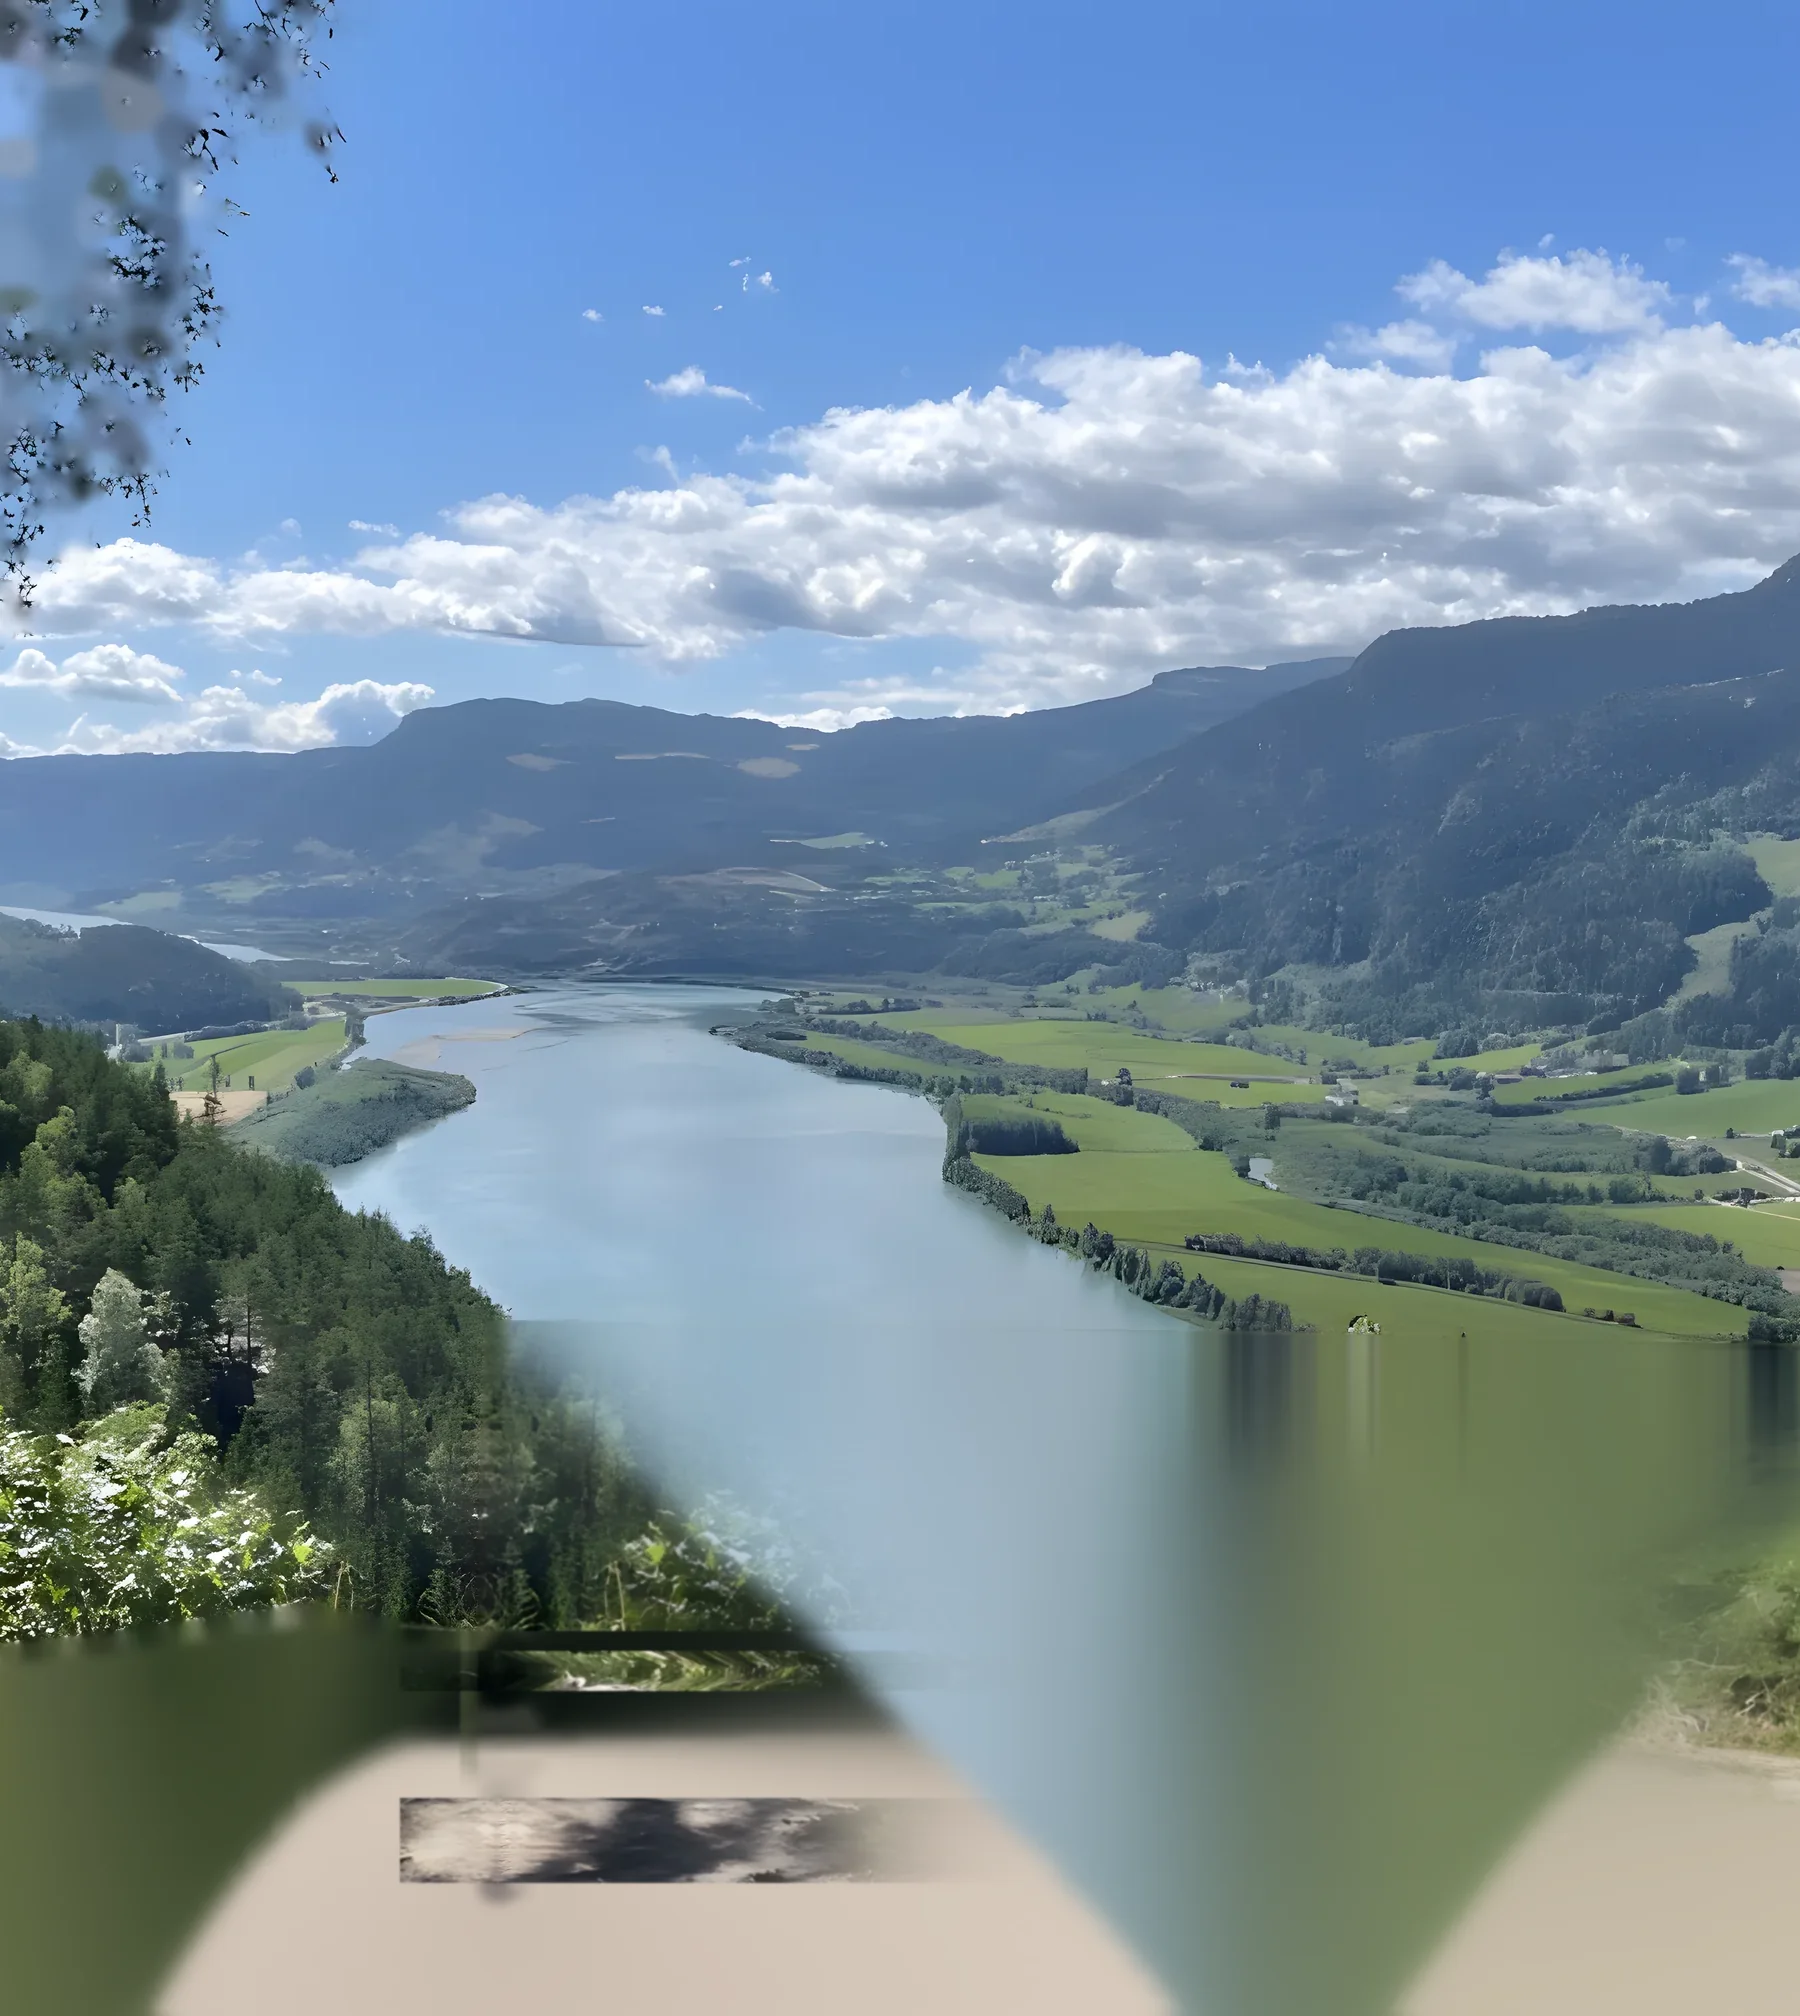
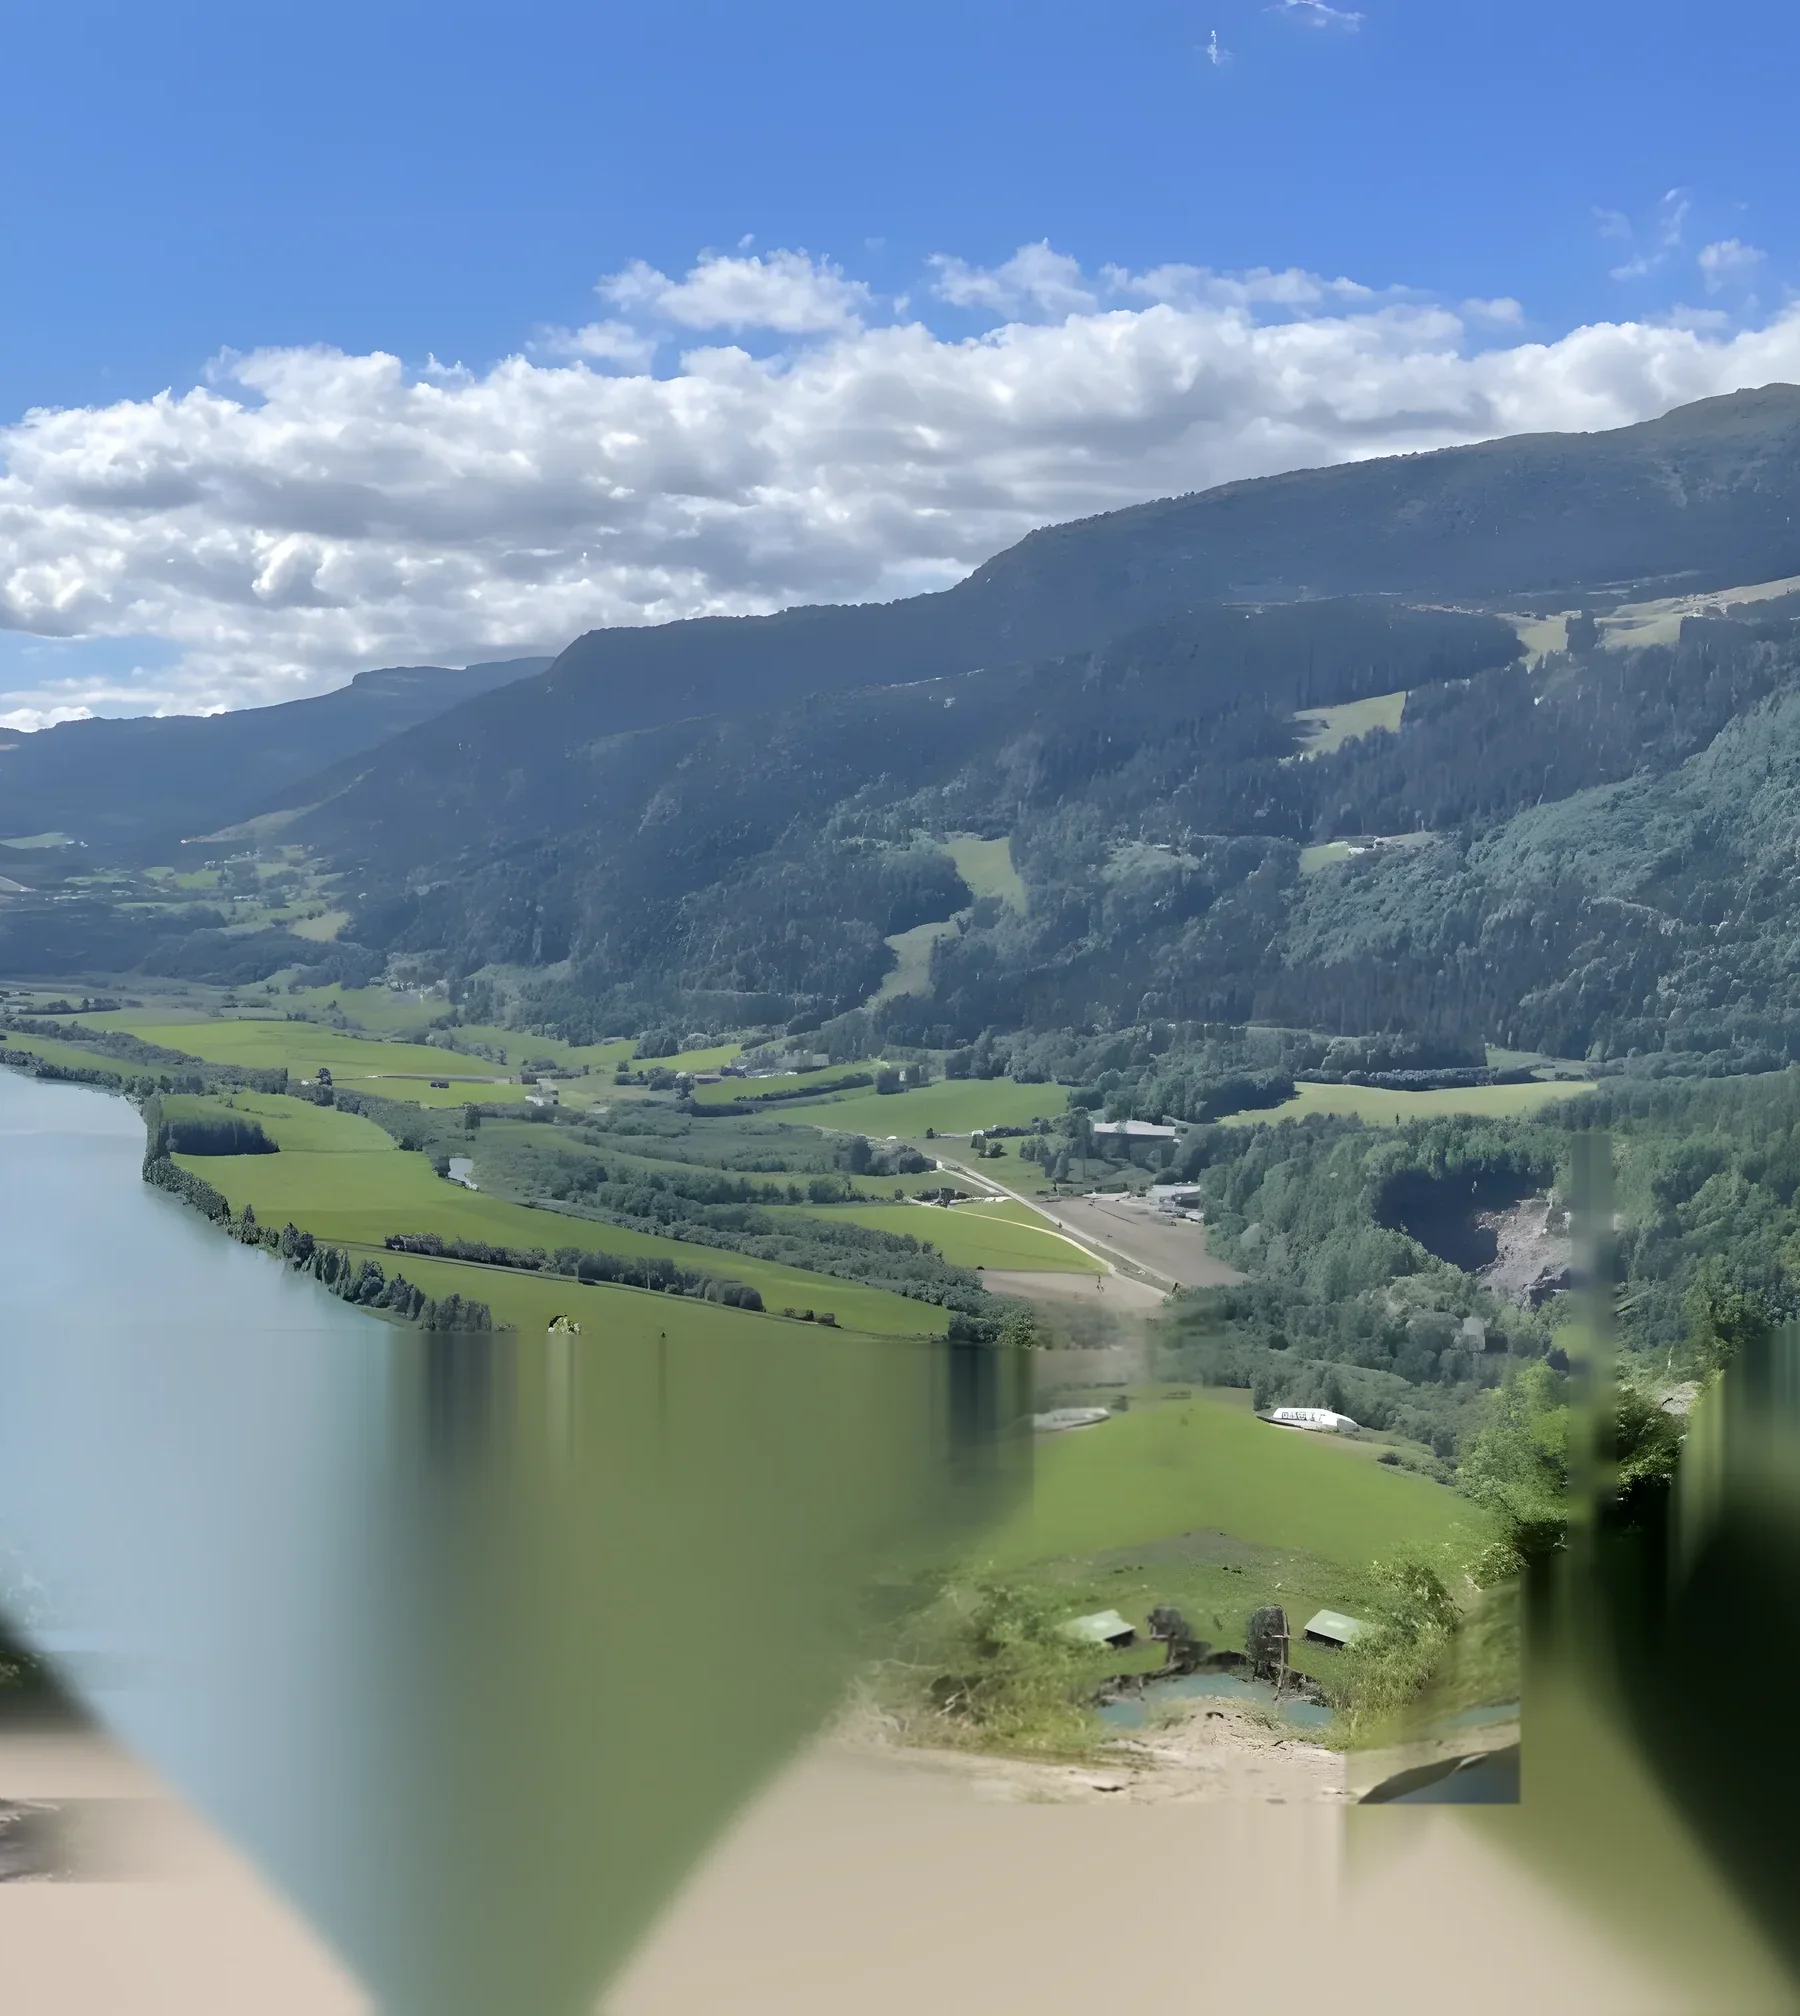
fix: the hero's words in deep ink with a soft glow, the haze cut back
The owner returned to Panorama and asked for the name to be clear over the
photo, a little white behind it allowed. Measured with the words hidden:
the name sits on bright sky and cloud, where white text failed on 60-100%
of its area and deep ink held, so the words stay ink. Each letter gets a
soft paper glow; the big haze on a desktop became a small one by the words
(ellipse 36% x 30%, max 0.62), with a thinner band under the menu; upright
screens keep a band that follows the words down. The photo's own contrast
behind each line (glow excluded) is now 4.4-10.6:1 at every size tested.
«Hos oss er alle velkomne» is ink in medium weight. The lines rise through
a clip-path that opens after the rise, so the glow is never cut off.

Phones also get the reframed crop asked for earlier: right of the middle,
more fields and far mountainside, less river and lookout.

diff --git a/src/components/home/panorama/panorama.module.css b/src/components/home/panorama/panorama.module.css
@@ -54,12 +54,13 @@
   top: 0;
   left: 0;
   width: 100%;
-  /* Taller than the frame, hung from its top: the foot of the photo, most of
-     it the lookout's concrete, falls below the hero and the river gets the
-     room instead. */
-  height: 120%;
+  /* Taller than the frame, hung from its top: the foot of the photo, the
+     lookout's concrete, falls below the hero, and the fields and the far side
+     of the valley get the room. The crop (far-tall, near-tall) lies right of
+     the middle, so the river shows only at the left edge. */
+  height: 132%;
   object-fit: cover;
-  object-position: 56% 0%;
+  object-position: 42% 0%;
 }
 @media (min-aspect-ratio: 1/1) {
   .frame img {
@@ -130,29 +131,64 @@
   }
 }
 
-/* A light veil only where the words and the menu sit: the top of the sky,
-   and on a phone the band the words cover. The river and the lookout stay
-   at full strength. */
+/* The words are deep ink, which the measurements favour: the name sits on
+   bright sky and cloud, where white text failed on 60-100% of it. Each letter
+   carries a soft glow of paper, and a small haze sits behind the words only
+   where the photo darkens under them (the birch leaves by the name on a
+   desktop, the mountainside under the line beneath it). The menu keeps a thin
+   band of paper at the top. The rest of the photo is at full strength. */
+.ord {
+  text-shadow:
+    0 0 2px rgba(var(--paper), 0.85),
+    0 0 12px rgba(var(--paper), 0.6),
+    0 0 28px rgba(var(--paper), 0.45);
+}
+/* The mask a line of the name rises through: it clips while the line rises,
+   then opens, so the glow round the letters is not cut off in a box. */
+.maske {
+  clip-path: inset(-1em);
+  animation: pano-maske 1ms linear backwards;
+}
+@keyframes pano-maske {
+  from {
+    clip-path: inset(0 -1em);
+  }
+}
 .veil {
   position: absolute;
   inset: 0;
   pointer-events: none;
-  background:
-    linear-gradient(
-      to bottom,
-      rgba(var(--paper), 0.9) 0px,
-      rgba(var(--paper), 0.8) 150px,
-      rgba(var(--paper), 0.7) 330px,
-      rgba(var(--paper), 0.3) 400px,
-      rgba(var(--paper), 0) 470px
-    );
+  background: linear-gradient(
+    to bottom,
+    rgba(var(--paper), 0.82) 0px,
+    rgba(var(--paper), 0.55) 120px,
+    rgba(var(--paper), 0.3) 300px,
+    rgba(var(--paper), 0.42) 380px,
+    rgba(var(--paper), 0.38) 430px,
+    rgba(var(--paper), 0) 520px
+  );
 }
-@media (min-width: 768px) {
+@media (min-width: 768px) and (max-aspect-ratio: 1/1) {
+  .veil {
+    background: linear-gradient(
+      to bottom,
+      rgba(var(--paper), 0.82) 0px,
+      rgba(var(--paper), 0.55) 120px,
+      rgba(var(--paper), 0.3) 300px,
+      rgba(var(--paper), 0.5) 360px,
+      rgba(var(--paper), 0.45) 420px,
+      rgba(var(--paper), 0) 520px
+    );
+  }
+}
+/* Upright screens (phones, tablets held upright) keep the band above, which
+   follows the words down; wide screens get the small haze by the words. */
+@media (min-width: 768px) and (min-aspect-ratio: 1/1) {
   .veil {
     background:
-      linear-gradient(to bottom, rgba(var(--paper), 0.86) 0px, rgba(var(--paper), 0.5) 96px, rgba(var(--paper), 0) 200px),
-      radial-gradient(ellipse 56% 46% at 18% 34%, rgba(var(--paper), 0.86) 0%, rgba(var(--paper), 0.76) 46%, rgba(var(--paper), 0.32) 76%, rgba(var(--paper), 0) 100%),
-      linear-gradient(to top, rgba(var(--paper), 0.92) 0px, rgba(var(--paper), 0.6) 40px, rgba(var(--paper), 0) 110px);
+      linear-gradient(to bottom, rgba(var(--paper), 0.82) 0px, rgba(var(--paper), 0.45) 90px, rgba(var(--paper), 0) 170px),
+      radial-gradient(ellipse 36% 30% at 22% 42%, rgba(var(--paper), 0.62) 0%, rgba(var(--paper), 0.5) 50%, rgba(var(--paper), 0.18) 80%, rgba(var(--paper), 0) 100%),
+      linear-gradient(to top, rgba(var(--paper), 0.86) 0px, rgba(var(--paper), 0.5) 30px, rgba(var(--paper), 0) 70px);
   }
 }
 

diff --git a/src/components/home/Panorama.tsx b/src/components/home/Panorama.tsx
@@ -165,13 +165,15 @@ export function Panorama() {
           On a phone they start below the sign (72 + 117px), with some air. */}
       <div className={`${s.words} mx-auto w-full max-w-[var(--container-max,1280px)] px-[var(--container-px,24px)] pt-[clamp(212px,28svh,232px)] md:pt-[clamp(150px,22svh,230px)]`}>
         <div className="max-w-full lg:max-w-[50%]">
-          <h1 style={{ fontSize: "clamp(40px, 6vw, 92px)", lineHeight: 0.96, letterSpacing: "-0.05em" }} className="text-[var(--color-ink)]">
+          <h1 style={{ fontSize: "clamp(40px, 6vw, 92px)", lineHeight: 0.96, letterSpacing: "-0.05em" }} className={`${s.ord} text-[var(--color-ink)]`}>
             <span className="sr-only">Ringebu Tannlegesenter</span>
             {[
               { text: "Ringebu", weight: 700 },
               { text: "Tannlegesenter", weight: 400 },
             ].map((line, li) => (
-              <span key={li} aria-hidden="true" className="block overflow-hidden">
+              // The mask the line rises through opens once the line is in, so
+              // the glow round the letters is never cut off in a box
+              <span key={li} aria-hidden="true" className={`${s.maske} block`} style={{ animationDelay: `${(115 + li * 11) / 100}s` }}>
                 {/* The padding gives the g of Ringebu room below the line inside the mask */}
                 <span className="hero-line inline-block pb-[0.08em]" style={{ animationDelay: `${0.3 + li * 0.11}s`, fontWeight: line.weight }}>
                   {line.text}
@@ -181,7 +183,7 @@ export function Panorama() {
           </h1>
 
           <p
-            className="hero-lift mt-4 max-w-[34ch] text-[24px] font-light leading-[1.25] tracking-[-0.02em] text-[var(--color-ink)] md:mt-5 md:text-[30px]"
+            className={`${s.ord} hero-lift mt-4 max-w-[34ch] text-[24px] font-medium leading-[1.25] tracking-[-0.02em] text-[var(--color-ink)] md:mt-5 md:text-[30px]`}
             style={{ animationDelay: "0.6s", "--from-y": "10px" } as CSSProperties}
           >
             Hos oss er alle velkomne

diff --git a/src/components/home/panorama/lag.py b/src/components/home/panorama/lag.py
@@ -180,9 +180,10 @@ rgba = np.dstack([src, alpha])
 rgba[alpha == 0, :3] = 0
 Image.fromarray(rgba, "RGBA").save(OUT + "/near.webp", quality=86, alpha_quality=90, method=6)
 
-# Portrait screens get a crop of the middle, the river and the lookout, so a
+# Portrait screens get a crop right of the middle, the fields and the far
+# side of the valley with only an edge of the river, so a
 # phone is sent pixels it shows rather than a panorama it mostly cuts off
-TX0, TX1 = 1100, 2900
+TX0, TX1 = 1900, 3700
 Image.fromarray(np.ascontiguousarray(far[:, TX0:TX1])).save(OUT + "/far-tall.webp", quality=84, method=6)
 Image.fromarray(np.ascontiguousarray(rgba[:, TX0:TX1]), "RGBA").save(OUT + "/near-tall.webp", quality=86, alpha_quality=90, method=6)
 
